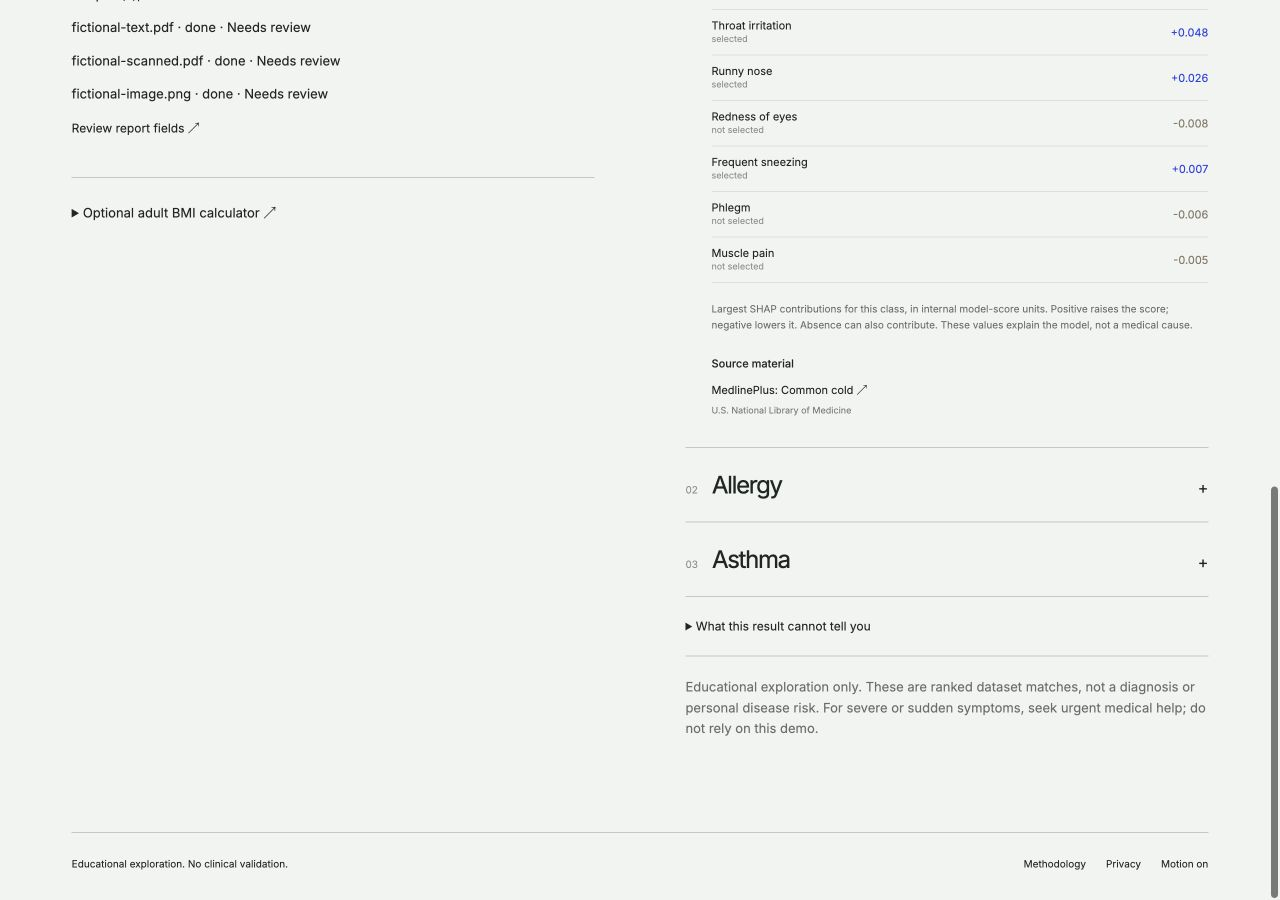
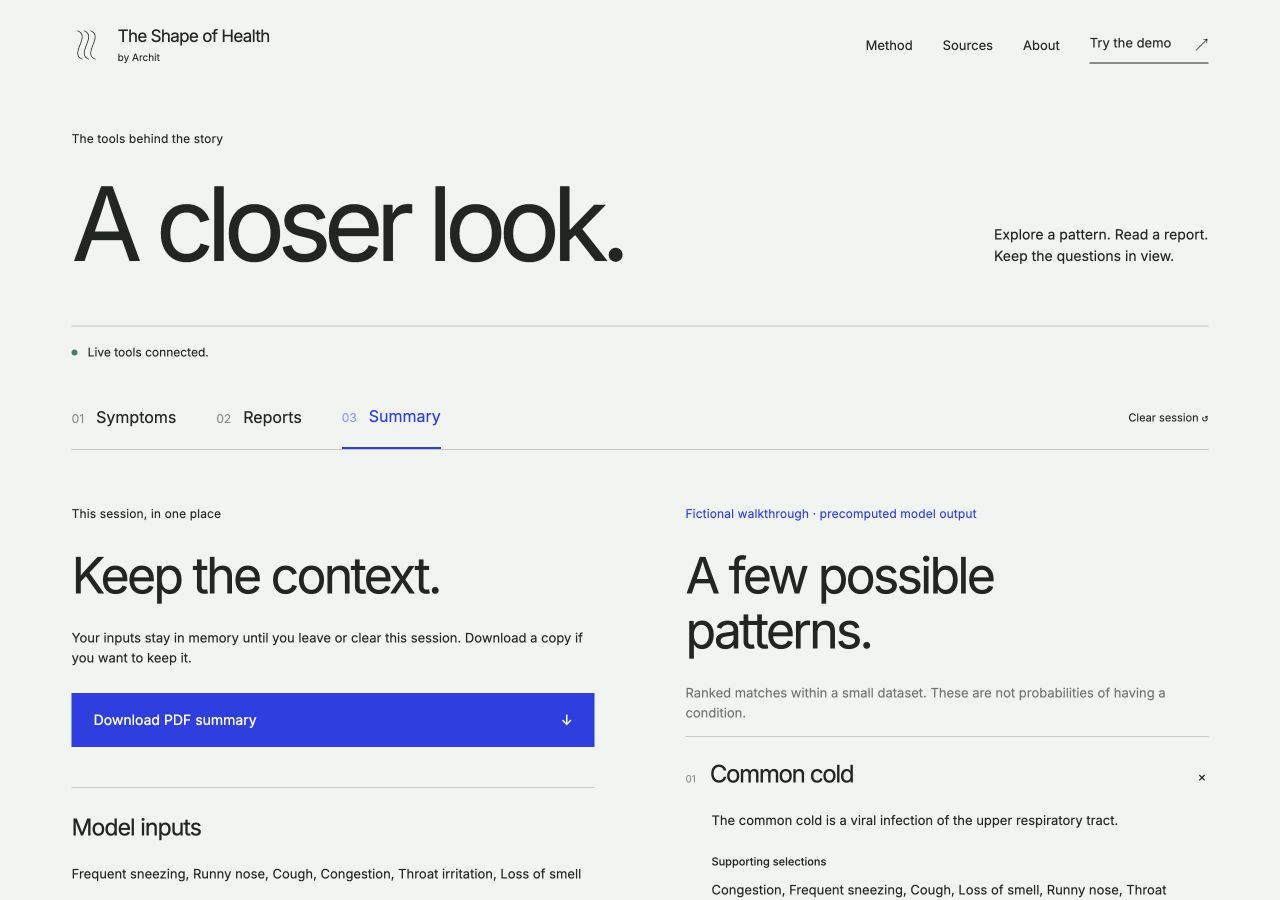
Verify portable SHAP sample values and record final public screenshots

diff --git a/training/verify_samples.py b/training/verify_samples.py
@@ -1,0 +1,34 @@
+"""Compare regenerated examples, allowing only floating-point roundoff.
+
+The model artifact and all other metadata are still checked byte-for-byte in CI.
+SHAP's native kernels differ by roughly 1e-13 between macOS ARM and Linux x86.
+"""
+import json
+from pathlib import Path
+import subprocess
+
+ROOT = Path(__file__).resolve().parents[1]
+
+
+def compare(expected, actual, path="samples"):
+    if isinstance(expected, float):
+        assert isinstance(actual, (int, float)) and abs(expected - actual) <= 1e-10, path
+    elif isinstance(expected, dict):
+        assert isinstance(actual, dict) and expected.keys() == actual.keys(), path
+        for key in expected:
+            compare(expected[key], actual[key], f"{path}.{key}")
+    elif isinstance(expected, list):
+        assert isinstance(actual, list) and len(expected) == len(actual), path
+        for index, (left, right) in enumerate(zip(expected, actual)):
+            compare(left, right, f"{path}[{index}]")
+    else:
+        assert type(expected) is type(actual) and expected == actual, path
+
+
+if __name__ == "__main__":
+    expected = json.loads(subprocess.check_output(
+        ["git", "show", "HEAD:shared/samples.json"], cwd=ROOT
+    ))
+    actual = json.loads((ROOT / "shared/samples.json").read_text())
+    compare(expected, actual)
+    print("Sample structure, ranks and sources match; numeric difference <= 1e-10.")

diff --git a/docs/VERIFICATION.md b/docs/VERIFICATION.md
@@ -5,7 +5,7 @@ Local verification on 2026-10-11:
 - 32 backend tests pass inside the Linux runtime with Tesseract. Native macOS runs skip the three OCR cases when Tesseract is absent.
 - Thirteen frontend tests pass, covering all offline examples, aliases, duplicate removal, follow-up confirmation and corrections, backend failure, editable reports, sequential three-file processing, partial failure, keyboard tabs, memory-only data, PDF pagination, chapter controls and a WebGL failure fallback.
 - Production TypeScript and Vite build passes. Heavy Three.js, workspace and PDF code load separately.
-- Retraining reproduces model checksum, split hashes and measured metrics. Source vocabulary is versioned and checked against artifact metadata.
+- Retraining reproduces model checksum, split hashes and measured metrics. Linux CI reproduced the exact model checksum and metrics; exported SHAP decimals differed by approximately 1e-13 across CPU architectures, so example comparisons allow absolute numerical error up to 1e-10 while requiring identical structure, ranks and sources. All other artifacts are compared byte-for-byte. Source vocabulary is versioned and checked against artifact metadata.
 - Runtime dependency audit and npm audit report no known vulnerabilities at verification time.
 - Browser: all three fictional cases, a live assessment, text PDF/scanned PDF/PNG upload queue, editable result and actual PDF download verified. The public three-report PDF has four pages and contains the corrected value and educational notice.
 - Visual comparison against The Shape of Intelligence at desktop and 390 px mobile widths. The health title, original sculpture and product copy differ; pale/charcoal scenes, large typography, chapter transitions and bottom controls follow the reference. Screenshots are in `docs/screenshots/`.
